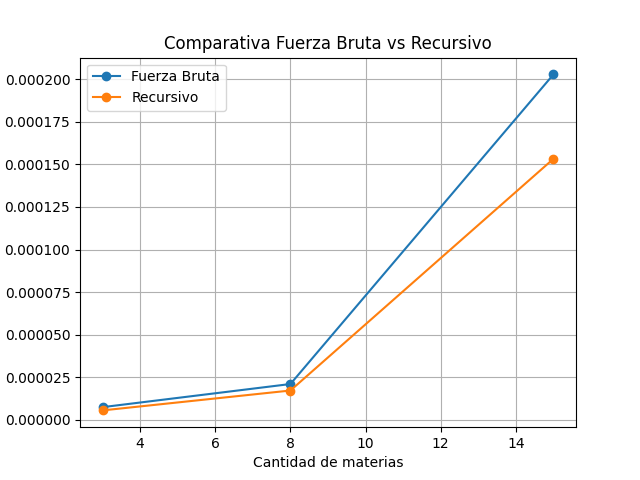
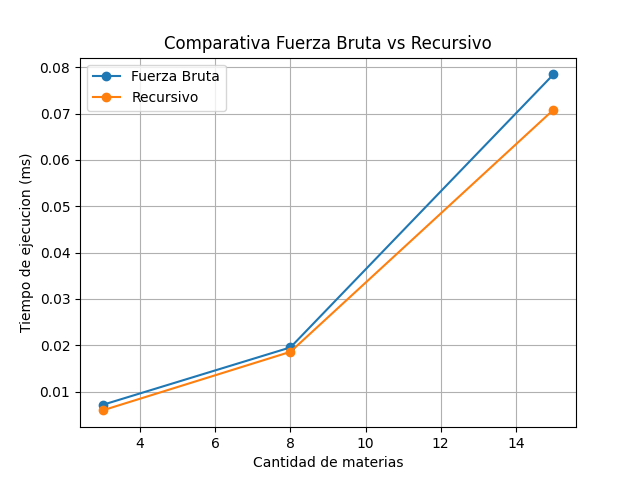
mejora_grafica

diff --git a/2-src/comparativas/comparativa_entrega1.py b/2-src/comparativas/comparativa_entrega1.py
@@ -1,8 +1,9 @@
 import time
+import json
 import sys
 import os
 
-# permitir importar archivos desde 2-Src
+# permitir importar archivos desde 2-src
 sys.path.append(
     os.path.abspath(
         os.path.join(os.path.dirname(__file__), "..")
@@ -19,6 +20,10 @@ casos = [
     ("caso_prueba_mediano.txt", 8, "Mediano"),
     ("caso_prueba_grande.txt", 15, "Grande")
 ]
+
+
+# lista donde se guardarán los resultados
+resultados = []
 
 
 print("=" * 75)
@@ -69,7 +74,18 @@ for caso, cantidad, nombre_caso in casos:
     tiempo_recursivo = (fin - inicio) * 1000  # ms
 
     # =====================================
-    # RESULTADOS
+    # GUARDAR RESULTADOS
+    # =====================================
+
+    resultados.append({
+        "caso": nombre_caso,
+        "materias": cantidad,
+        "fuerza_bruta": tiempo_fuerza_bruta,
+        "recursivo": tiempo_recursivo
+    })
+
+    # =====================================
+    # MOSTRAR RESULTADOS
     # =====================================
 
     print(f"\nCASO: {nombre_caso}")
@@ -77,13 +93,32 @@ for caso, cantidad, nombre_caso in casos:
     print(f"   Materias totales: {cantidad}")
 
     print(
-        f"   Fuerza Bruta:    "
+        f"   Fuerza Bruta: "
         f"{len(resultado_fuerza_bruta)} asignadas en "
         f"{tiempo_fuerza_bruta:.4f} ms"
     )
 
     print(
-        f"   Recursividad:    "
+        f"   Recursividad: "
         f"{len(asignaciones_recursivo)} asignadas en "
         f"{tiempo_recursivo:.4f} ms"
     )
+
+
+# =====================================
+# GUARDAR JSON
+# =====================================
+
+with open(
+    "2-src/comparativas/resultados_entrega1.json",
+    "w"
+) as archivo:
+
+    json.dump(
+        resultados,
+        archivo,
+        indent=4
+    )
+
+
+print("\nArchivo JSON generado correctamente.")

diff --git a/2-src/comparativas/generar_graficas.py b/2-src/comparativas/generar_graficas.py
@@ -1,27 +1,38 @@
+import json
 import matplotlib.pyplot as plt
 
 
-# tamaños de entrada
-materias = [3, 8, 15]
+# =========================================
+# LEER RESULTADOS ENTREGA 1
+# =========================================
 
-# tiempos fuerza bruta
-tiempos_fuerza_bruta = [
-    7.3909759521484375e-06,
-    2.09808349609375e-05,
-    0.0002028942108154297
-]
+with open(
+    "2-src/comparativas/resultados_entrega1.json",
+    "r"
+) as archivo:
 
-# tiempos recursivo
-tiempos_recursivo = [
-    5.4836273193359375e-06,
-    1.71661376953125e-05,
-    0.0001533031463623047
-]
+    datos_entrega1 = json.load(archivo)
+
+
+materias = []
+tiempos_fuerza_bruta = []
+tiempos_recursivo = []
+
+
+for dato in datos_entrega1:
+
+    materias.append(dato["materias"])
+
+    tiempos_fuerza_bruta.append(dato["fuerza_bruta"])
+
+    tiempos_recursivo.append(dato["recursivo"])
 
 
 # =========================================
-# GRAFICA COMPARATIVA
+# GRAFICA FUERZA BRUTA VS RECURSIVO
 # =========================================
+
+plt.figure()
 
 plt.plot(
     materias,
@@ -38,7 +49,7 @@ plt.plot(
 )
 
 plt.xlabel("Cantidad de materias")
-plt.ylabel("Tiempo de ejecucion (segundos)")
+plt.ylabel("Tiempo de ejecucion (ms)")
 
 plt.title("Comparativa Fuerza Bruta vs Recursivo")
 
@@ -46,10 +57,8 @@ plt.legend()
 
 plt.grid(True)
 
-# guardar imagen
 plt.savefig(
     "4-graficas/fuerza_bruta_vs_recursivo.png"
 )
 
-# mostrar grafica
 plt.show()
